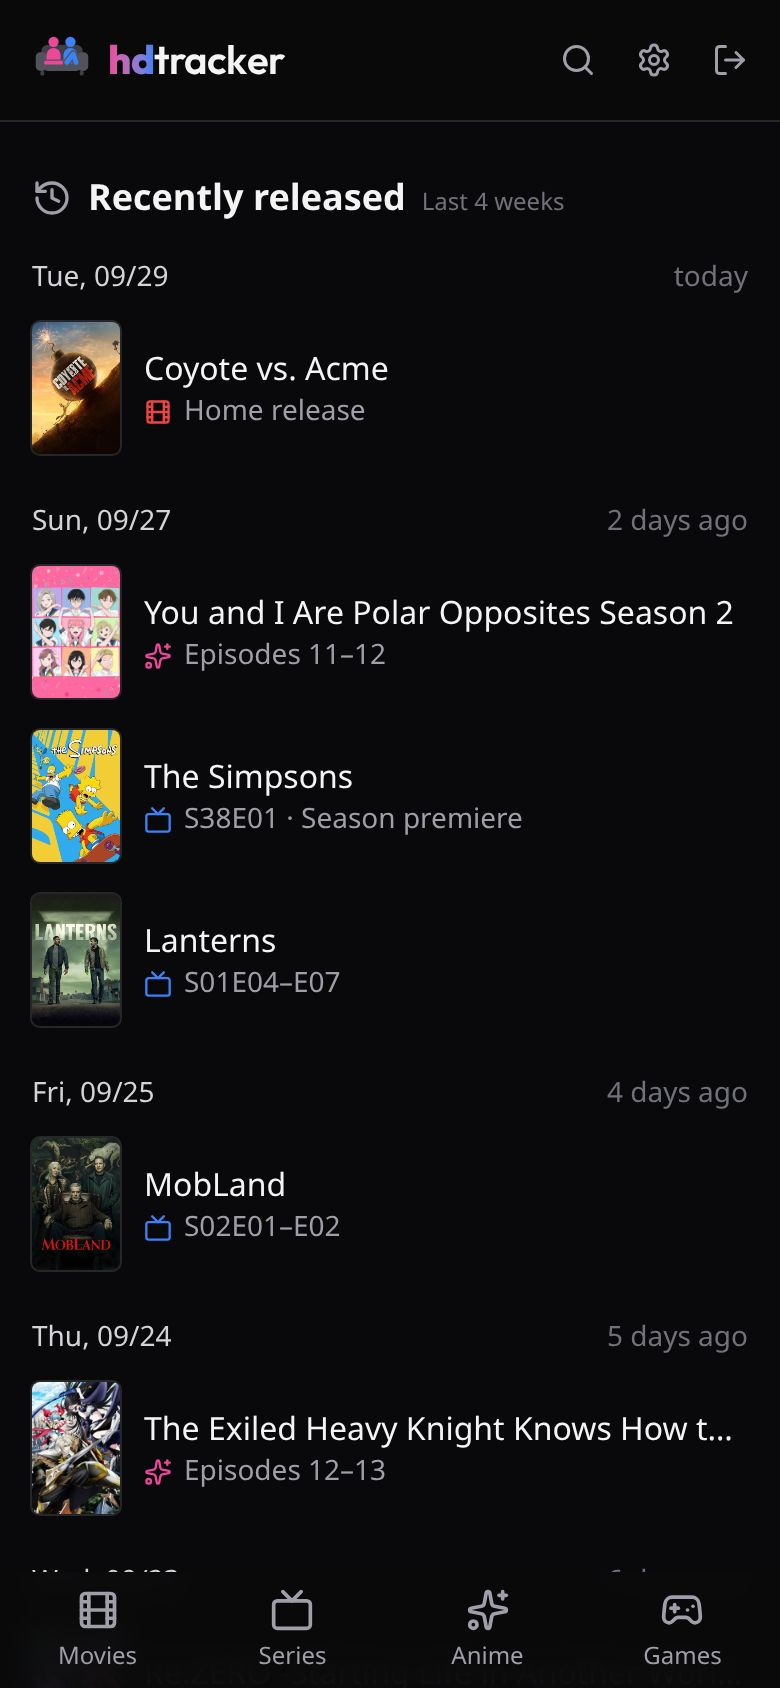
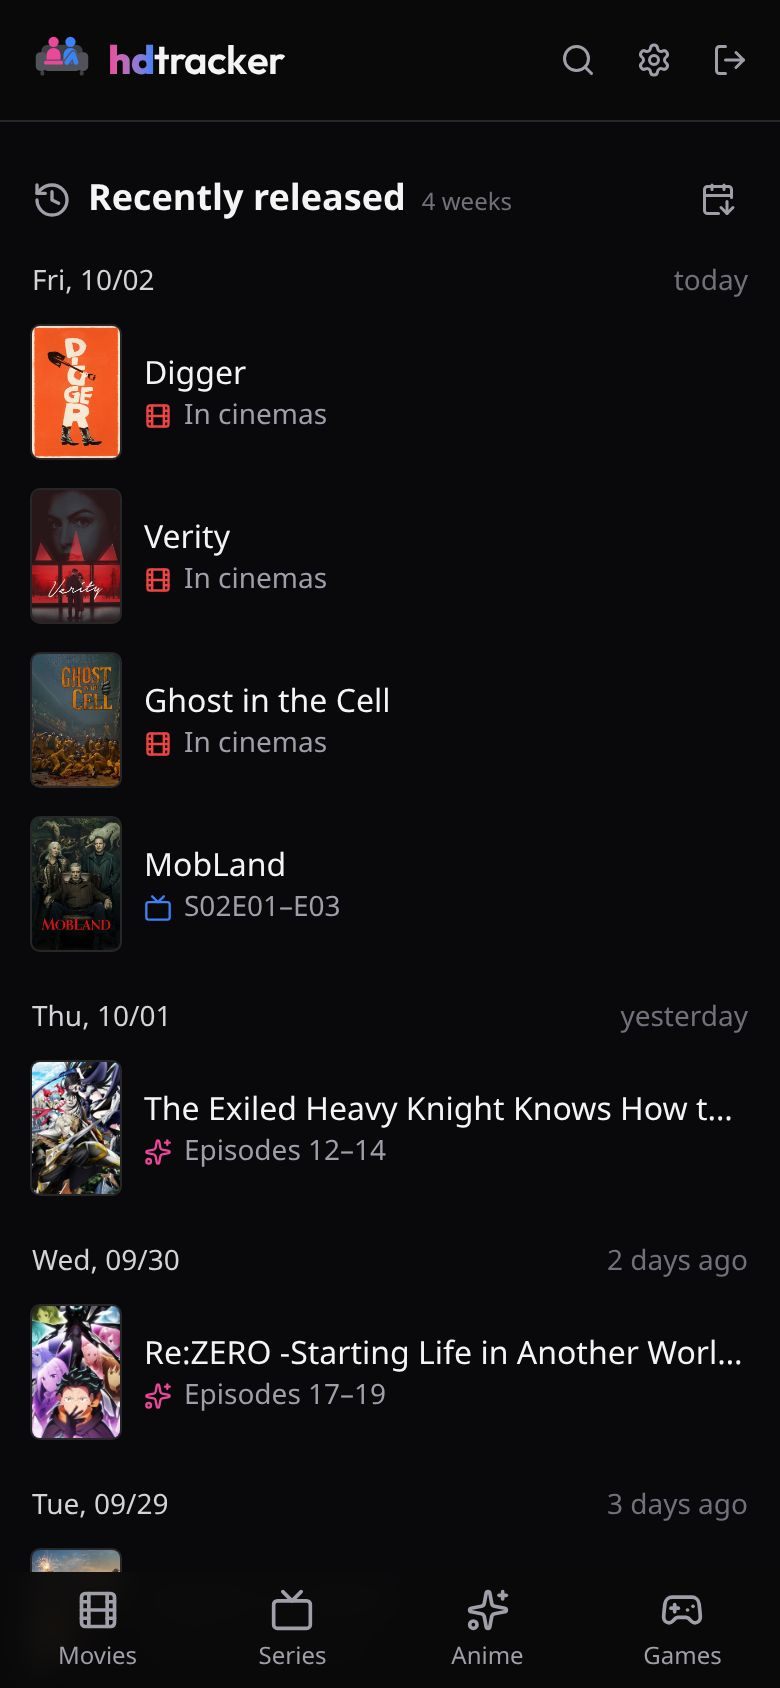
Release 0.5.0
README: one screenshot per theme, embedded like the other screenshots.
Roadmap rule: ticked items stay until v1.0.0.

diff --git a/CHANGELOG.md b/CHANGELOG.md
@@ -7,24 +7,33 @@ All notable changes to hdtracker. Each version is also published as a [GitHub re
      "## X.Y.Z – date". Sections (leave out empty ones): ### ✨ New, ### 🔧 Improved, ### 🐛 Fixed,
      ### 🗑 Removed, and on release ### ⬆ Updating (what users have to do when updating). -->
 
-## Upcoming release
+## 0.5.0 – 2026-10-02
+
+Themes, an export, and a library that opens without waiting.
 
 ### ✨ New
 
 - **Themes** (Settings → Appearance): choose how hdtracker looks – “System” follows your device (the new default), or pick dark (as before) or light; the well-known palettes Tokyo Night, Dracula and SynthWave '84; and the character themes Cyberpunk, Retro 95, Terminal and Breadbin. A small preview shows each theme; the login page follows the theme last used on the device
-- **Dashboard order**: both lists can be reversed with one tap on the calendar button next to their heading (newest or oldest first, next or latest first); your choice is remembered on all your devices
 - **Export your library** (Settings → Data): downloads everything as a CSV file – statuses, watched episodes and anime progress. The file has the format of Yamtrack and can be imported there or into hdtracker again
+- **Dashboard order**: both lists can be reversed with one tap on the calendar button next to their heading (newest or oldest first, next or latest first); your choice is remembered on all your devices
 
 ### 🔧 Improved
 
 - **Titles in your library open instantly**: details and images of a title are loaded in the background as soon as you add it and refreshed every night, so detail pages no longer wait for TMDB, IGDB or AniList
 - The nightly refresh is much gentler on the data sources: one request per title instead of two or three; watched movies and anime and completed games are refreshed once a week, dropped titles once a month (they were never refreshed before); direct streaming links (Wikidata) are only looked up once a month
-- Settings → About lists Wikidata as a data source
 - Maintenance shows how many titles are preloaded; a long “Run now” keeps running in the background instead of blocking the page
+- Settings → About lists Wikidata as a data source
 
 ### 🐛 Fixed
 
 - Anime that have not started yet and have no exact start date were treated as already released: they were missing on the dashboard and their statuses were not locked
+
+### ⬆ Updating
+
+Just pull the new image – the database is updated automatically on start, your library stays as it is. Two things you will notice:
+
+- **The look may change:** hdtracker now follows the light/dark setting of your device. If your device is set to light and you prefer the old look, choose “Dark” under Settings → Appearance.
+- **After the first start,** hdtracker loads details and images for your whole library once in the background. This takes a few minutes for large libraries (anime take the longest); you can keep using the app meanwhile.
 
 ## 0.4.0 – 2026-10-02
 

diff --git a/README.md b/README.md
@@ -62,9 +62,17 @@ What changed in each version: [Changelog](CHANGELOG.md). What's planned: [Roadma
 
 ### 🎨 Themes
 
-<p align="center">
-  <img src="docs/screenshots/themes.jpg" alt="The same library in nine themes: Dark, Light, Tokyo Night, Dracula, SynthWave '84, Cyberpunk, Retro 95, Terminal and Breadbin" />
-</p>
+|                                    Dark                                    |                                    Light                                     |                                       Tokyo Night                                       |
+| :------------------------------------------------------------------------: | :--------------------------------------------------------------------------: | :-------------------------------------------------------------------------------------: |
+| <img src="docs/screenshots/theme-dark.jpg" alt="Dark theme" width="260" /> | <img src="docs/screenshots/theme-light.jpg" alt="Light theme" width="260" /> | <img src="docs/screenshots/theme-tokyonight.jpg" alt="Tokyo Night theme" width="260" /> |
+
+|                                     Dracula                                      |                                      SynthWave '84                                       |                                      Cyberpunk                                       |
+| :------------------------------------------------------------------------------: | :--------------------------------------------------------------------------------------: | :----------------------------------------------------------------------------------: |
+| <img src="docs/screenshots/theme-dracula.jpg" alt="Dracula theme" width="260" /> | <img src="docs/screenshots/theme-synthwave.jpg" alt="SynthWave '84 theme" width="260" /> | <img src="docs/screenshots/theme-cyberpunk.jpg" alt="Cyberpunk theme" width="260" /> |
+
+|                                     Retro 95                                      |                                      Terminal                                      |                                   Breadbin                                    |
+| :-------------------------------------------------------------------------------: | :--------------------------------------------------------------------------------: | :---------------------------------------------------------------------------: |
+| <img src="docs/screenshots/theme-retro95.jpg" alt="Retro 95 theme" width="260" /> | <img src="docs/screenshots/theme-terminal.jpg" alt="Terminal theme" width="260" /> | <img src="docs/screenshots/theme-c64.jpg" alt="Breadbin theme" width="260" /> |
 
 <p align="center"><sub>Screenshots with a demo library. Posters and data from TMDB, AniList and IGDB.</sub></p>
 

diff --git a/CLAUDE.md b/CLAUDE.md
@@ -110,7 +110,7 @@ Optisch getrennte Bereiche (keine Filter): **Filme, Serien, Anime, Spiele**.
 ## Roadmap
 
 - Was bis v1.0.0 geplant ist, steht öffentlich in `ROADMAP.md` (Englisch, Checkliste, aus Nutzersicht). Auf „was steht noch an?“ daraus antworten.
-- Pflege: neue Idee des Users für später → dort eintragen; umgesetzt → abhaken (`- [x]`); beim Release abgehakte Punkte entfernen (sie stehen dann im Changelog). Kein GitHub-Milestone – bewusst, damit der User nichts von Hand pflegen muss.
+- Pflege: neue Idee des Users für später → dort eintragen; umgesetzt → abhaken (`- [x]`); abgehakte Punkte bleiben bis zum Release von v1.0.0 stehen (erst dann entfernen, nicht bei Zwischen-Releases). Kein GitHub-Milestone – bewusst, damit der User nichts von Hand pflegen muss.
 - Technische Notizen zu den Punkten (nicht in der Roadmap):
   - Benachrichtigungen (Pushover): persönlicher Bereich „Benachrichtigungen“ in den Einstellungen.
   - Streaming-Übersicht: Anbieter ohne Treffer ausblenden. Offen: eigener Menüpunkt oder Teil des Dashboards.
